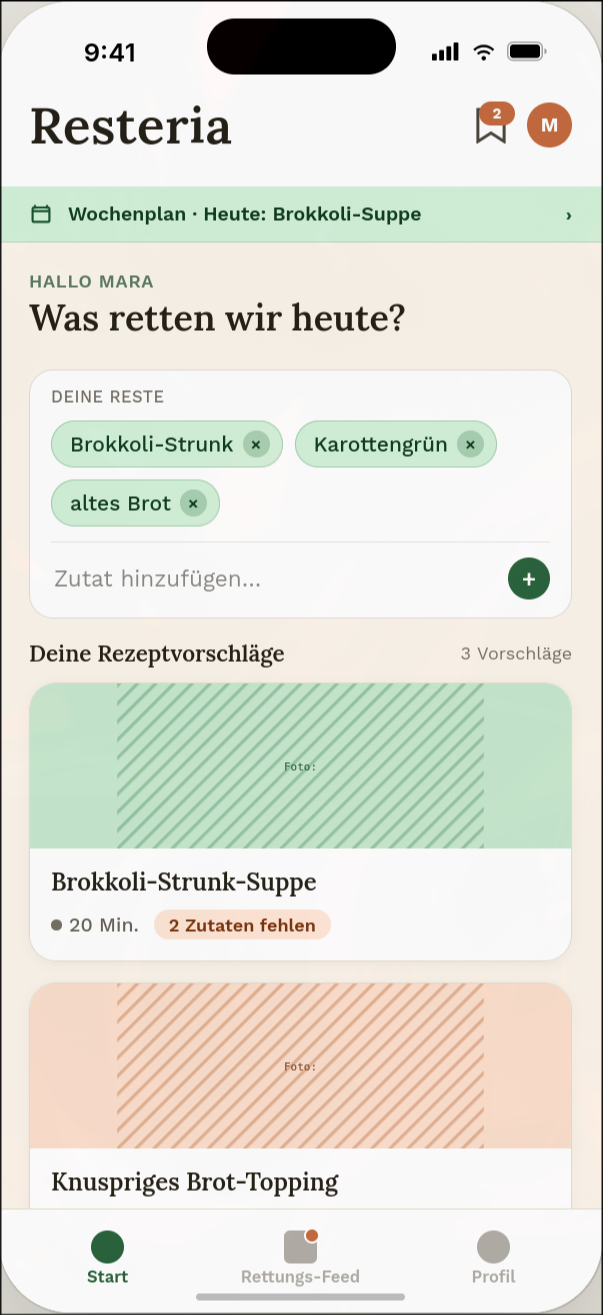
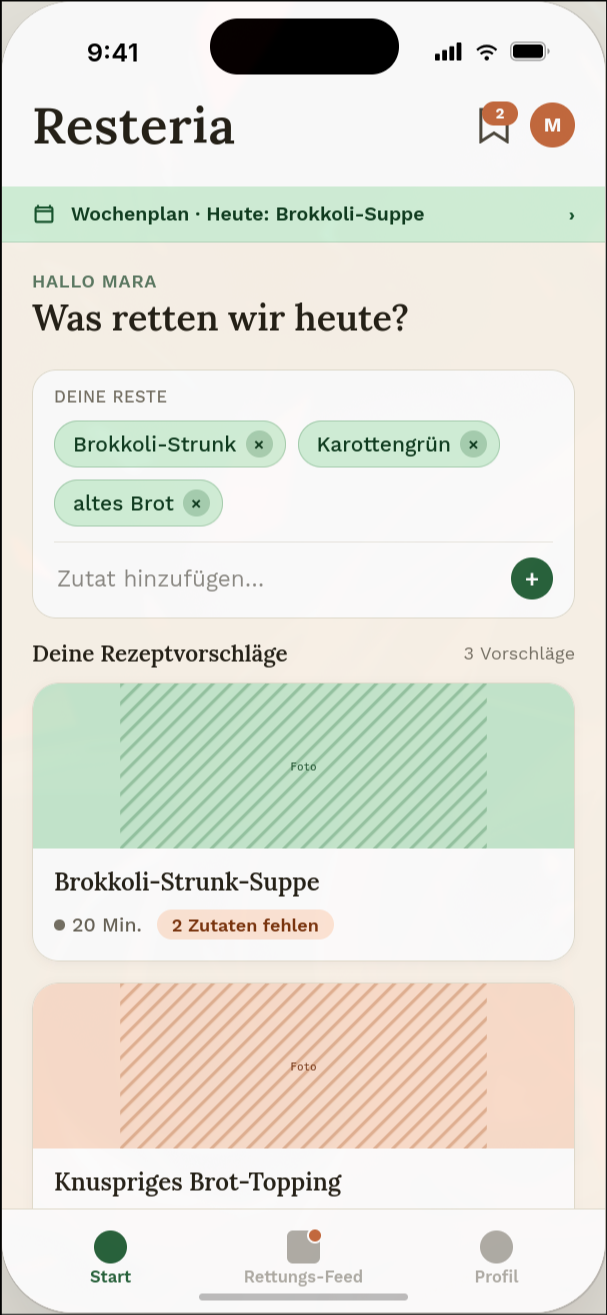
mockup updates und styletile

diff --git a/pages/appendix.tex b/pages/appendix.tex
@@ -24,21 +24,21 @@ Typische Haltung & Möchte nicht extra einkaufen müssen, nur weil ein Rezept ei
 \caption{UI/UX-Mockup Resteria: Startseite mit Reste-Eingabe und Rezeptvorschlag}\label{fig:mockup_start}
 \centering
 \includegraphics[height=0.55\textheight, keepaspectratio]{images/durchfuehrung/resteria_startseite.png}
-\quelle{Erstellt mit dem Prompt \enquote{Mobile App-Screen für Resteria, eine Social-Media-Plattform für nachhaltigkeitsorientierte Hobbyköch:innen: Startseite mit Reste-Eingabefeld (Zutaten als Chip-Tags, z.\,B. Brokkoli-Strunk, Karottengrün, altes Brot) und darunter Rezeptvorschlägen als Karten mit Zubereitungszeit und fehlenden Zutaten; warmer, erdiger Look in Grün- und Terracotta-Tönen, keine Stock-Photo-Ästhetik} durch Anthropic, 2026 (Claude Design, Modell Claude Sonnet 5). Abbildung nachträglich manuell bearbeitet.}
+\quelle{Erstellt mit dem Prompt \enquote{Mobile App-Screen für Resteria, eine Social-Media-Plattform für nachhaltigkeitsorientierte Hobbyköch:innen: Startseite mit Reste-Eingabefeld (Zutaten als Chip-Tags, z.\,B. Brokkoli-Strunk, Karottengrün, altes Brot) und darunter Rezeptvorschlägen als Karten mit Zubereitungszeit und fehlenden Zutaten; warmer, erdiger Look in Grün- und Terracotta-Tönen, keine Stock-Photo-Ästhetik}, ergänzt um die Folge-Prompts \enquote{Ergänze am Startseiten-Screen unterhalb der Rezeptvorschläge eine kompakte Karte \enquote{Wochenplan \& Reste-Journal} mit den nächsten Wochentagen und einer Zeile zu zuletzt verwerteten Zutaten} sowie \enquote{Ersetze die Foto-Platzhalter-Beschriftung \enquote{Foto:} durch \enquote{Foto} ohne Doppelpunkt} und in weiteren Iterationsschritten verfeinert, durch Anthropic, 2026 (Claude Design, Modell Claude Sonnet 5). Abbildung nachträglich manuell bearbeitet.}
 \end{figure}
 
 \begin{figure}[H]
 \caption{UI/UX-Mockup Resteria: Startseite mit ausgeklappten gespeicherten Rezepten}\label{fig:mockup_start_bookmarks}
 \centering
 \includegraphics[height=0.55\textheight, keepaspectratio]{images/durchfuehrung/resteria_startseite_bookmarks.png}
-\quelle{Erstellt mit dem Prompt \enquote{Dieselbe Resteria-Startseite, jedoch mit über das Lesezeichen-Icon ausgeklapptem Bereich \enquote{Gespeicherte Rezepte}, der zuvor per Lesezeichen markierte Rezeptvorschläge auflistet; gleicher warmer, erdiger Look in Grün- und Terracotta-Tönen} durch Anthropic, 2026 (Claude Design, Modell Claude Sonnet 5). Abbildung nachträglich manuell bearbeitet.}
+\quelle{Erstellt mit dem Prompt \enquote{Dieselbe Resteria-Startseite, jedoch mit über das Lesezeichen-Icon ausgeklapptem Bereich \enquote{Gespeicherte Rezepte}, der zuvor per Lesezeichen markierte Rezeptvorschläge auflistet; gleicher warmer, erdiger Look in Grün- und Terracotta-Tönen}, ergänzt um die Folge-Prompts \enquote{Ergänze am Startseiten-Screen unterhalb der Rezeptvorschläge eine kompakte Karte \enquote{Wochenplan \& Reste-Journal} mit den nächsten Wochentagen und einer Zeile zu zuletzt verwerteten Zutaten} sowie \enquote{Ersetze die Foto-Platzhalter-Beschriftung \enquote{Foto:} durch \enquote{Foto} ohne Doppelpunkt} und in weiteren Iterationsschritten verfeinert, durch Anthropic, 2026 (Claude Design, Modell Claude Sonnet 5). Abbildung nachträglich manuell bearbeitet.}
 \end{figure}
 
 \begin{figure}[H]
 \caption{UI/UX-Mockup Resteria: Profil mit Rettungspunkten und Reste-Level}\label{fig:mockup_profil}
 \centering
 \includegraphics[height=0.55\textheight, keepaspectratio]{images/durchfuehrung/resteria_profil.png}
-\quelle{Erstellt mit dem Prompt \enquote{Mobile App-Screen für Resteria: Profilbereich mit Profilbild-Platzhalter, Namen und Reste-Level-Badge (z.\,B. \enquote{Level 4 – Resteheld:in}), Rettungspunkte-Fortschrittsbalken und einem Raster eigener geposteter Reste-Kreationen; warmer, erdiger Look in Grün- und Terracotta-Tönen, keine Stock-Photo-Ästhetik}, ergänzt um den Folge-Prompt \enquote{Ergänze unterhalb des Rettungspunkte-Fortschrittsbalkens eine zweite, kleinere Kennzahl mit einer konkreten Mengenangabe, z.\,B. \enquote{12,4 kg Lebensmittel gerettet}, die die Rettungspunkte in eine greifbare Einsparung übersetzt} durch Anthropic, 2026 (Claude Design, Modell Claude Sonnet 5). Abbildung nachträglich manuell bearbeitet.}
+\quelle{Erstellt mit dem Prompt \enquote{Mobile App-Screen für Resteria: Profilbereich mit Profilbild-Platzhalter, Namen und Reste-Level-Badge (z.\,B. \enquote{Level 4 – Resteheld:in}), Rettungspunkte-Fortschrittsbalken und einem Raster eigener geposteter Reste-Kreationen; warmer, erdiger Look in Grün- und Terracotta-Tönen, keine Stock-Photo-Ästhetik}, ergänzt um die Folge-Prompts \enquote{Ergänze unterhalb des Rettungspunkte-Fortschrittsbalkens eine zweite, kleinere Kennzahl mit einer konkreten Mengenangabe, z.\,B. \enquote{12,4 kg Lebensmittel gerettet}, die die Rettungspunkte in eine greifbare Einsparung übersetzt} sowie \enquote{Ersetze die Foto-Platzhalter-Beschriftung \enquote{Foto:} durch \enquote{Foto} ohne Doppelpunkt} durch Anthropic, 2026 (Claude Design, Modell Claude Sonnet 5). Abbildung nachträglich manuell bearbeitet.}
 \end{figure}
 
 \begin{figure}[H]
@@ -46,4 +46,13 @@ Typische Haltung & Möchte nicht extra einkaufen müssen, nur weil ein Rezept ei
 \centering
 \includegraphics[height=0.55\textheight, keepaspectratio]{images/durchfuehrung/resteria_rettungsfeed.png}
 \quelle{Erstellt mit dem Prompt \enquote{Mobile App-Screen für Resteria: vertikaler Rettungs-Feed im Social-Media-Stil mit Beiträgen, die je ein Foto, einen Nutzernamen, einen Tag mit der geretteten Zutat sowie Like- und Kommentar-Icons zeigen; warmer, erdiger Look in Grün- und Terracotta-Tönen, keine Stock-Photo-Ästhetik}, ergänzt um die Folge-Prompts \enquote{Ergänze am Rettungs-Feed-Screen einen schwebenden Terracotta-Plus-Button unten rechts zum Beitrag-Erstellen sowie ein schmales Challenge-Banner oben für die \enquote{Zero-Waste-Woche}-Rangliste} sowie \enquote{Positioniere den Plus-Button am Rettungs-Feed-Screen so, dass er die Aktionsleiste des ersten Beitrags nicht überlappt, und ersetze die Foto-Platzhalter-Beschriftung \enquote{Foto:} durch \enquote{Foto} ohne Doppelpunkt} durch Anthropic, 2026 (Claude Design, Modell Claude Sonnet 5). Abbildung nachträglich manuell bearbeitet.}
+\end{figure}
+
+\section*{Anhang~C: Style Tile Resteria}\label{sec:anhang_c}
+
+\begin{figure}[H]
+\caption{Style Tile Resteria: Farbwelt, Typografie und wiederkehrende Bedienelemente}\label{fig:styletile}
+\centering
+\includegraphics[height=0.85\textheight, keepaspectratio]{images/durchfuehrung/resteria_styletile.png}
+\quelle{Erstellt mit dem Prompt \enquote{Erstelle einen Style Tile für das Projekt erstellen auf einer neuen Seite. Formatiere ihn als kompakter One-Pager im A4 Seitenformat} durch Anthropic, 2026 (Claude Design, Modell Claude Sonnet 5).}
 \end{figure}

diff --git a/chapters/02_durchfuehrung/03_konzept.tex b/chapters/02_durchfuehrung/03_konzept.tex
@@ -10,7 +10,7 @@ Um aus einmaliger Nutzung wiederkehrendes Verhalten zu machen, bemessen sich Ret
 
 Dass Gamification als Hebel grundsätzlich wirkt, zeigt eine Feldstudie von \textcite[S. 9]{somaFoodWasteReduction2020}: Vielspieler:innen einer zwölfwöchigen Intervention reduzierten ihren Lebensmittelabfall um 51 Prozent, Wenigspieler:innen nur um 39 Prozent; der Unterschied war statistisch signifikant. Die Studie stützt damit die Entscheidung für Gamification, belegt aber nicht die Wirkung der konkreten Punkte- und Level-Mechanik von Resteria, weil sie eine andere Intervention getestet hat. Deren Ausgestaltung bleibt eine eigene Konzeptleistung dieser Arbeit.
 
-Drei weitere Kernfunktionen nennt die Aufgabenstellung explizit. Nutzer:innen können eigene Reste-Kreationen per Foto oder kurzem Video hochladen, allerdings mit Pflichtangabe der verwendeten Reste-Zutat. Ein Bewertungs- und Kommentarsystem erlaubt es, auf fremde Beiträge zu reagieren und Zubereitungstipps auszutauschen. Personalisierte Empfehlungen schlagen Rezepte vor, die zu bereits genutzten Zutaten oder bevorzugten Küchenstilen passen. Eine vierte Funktion verknüpft Menüplanung mit dem Zero-Waste-Fokus: Ein Wochenplan nutzt vorhandene Zutaten, ein begleitendes Reste-Journal protokolliert die verwerteten Zutaten und speist sie in die Rettungspunkte ein. Erreichbar ist der Bereich über die Startseite, sodass die Navigation bei drei Hauptbereichen bleibt.
+Drei weitere Kernfunktionen nennt die Aufgabenstellung explizit. Nutzer:innen können eigene Reste-Kreationen per Foto oder kurzem Video hochladen, allerdings mit Pflichtangabe der verwendeten Reste-Zutat. Ein Bewertungs- und Kommentarsystem erlaubt es, auf fremde Beiträge zu reagieren und Zubereitungstipps auszutauschen. Personalisierte Empfehlungen schlagen Rezepte vor, die zu bereits genutzten Zutaten oder bevorzugten Küchenstilen passen. Eine vierte Funktion verknüpft Menüplanung mit dem Zero-Waste-Fokus: Ein Wochenplan nutzt vorhandene Zutaten und ist über die Startseite erreichbar; das zugehörige Reste-Journal protokolliert die verwerteten Zutaten im Profilbereich, wo sie als Rettungspunkte und als Einsparangabe sichtbar werden. Die Navigation bleibt damit bei drei Hauptbereichen.
 
 \begin{table}[H]
 \caption{Funktionsübersicht von Resteria}\label{tab:funktionsuebersicht}
@@ -31,6 +31,6 @@ Menüplanung \& Reste-Journal & Wochenplan verknüpft mit Protokoll verwerteter 
 
 Innovativ gegenüber den untersuchten Plattformen sind vor allem die Kopplung von Menüplanung und Reste-Journal an die Rettungspunkte, der verpflichtende Reste-Tag bei jedem Feed-Beitrag und die zeitlich begrenzten Challenges anstelle von Forum und Gruppen. Rezept-Upload, Bewertungs- und Kommentarsystem sowie personalisierte Empfehlungen übernimmt Resteria dagegen bewusst aus etablierten Rezept-Communitys, weil sich diese Formate dort bereits bewährt haben.
 
-Die Struktur für User Interface (UI) und User Experience (UX) folgt drei Hauptbereichen: einer Startseite mit Reste-Eingabefeld und Rezeptvorschlägen, einem Profilbereich mit Rettungspunkten, Reste-Level und eigenen Beiträgen sowie dem Rettungs-Feed aus~\autoref{sec:community_und_feedback}. Über ein Lesezeichen-Icon lassen sich Rezeptvorschläge als \enquote{Gespeicherte Rezepte} merken. Für alle Bereiche liegt je ein Mockup in Anhang B vor: Startseite in~\autoref{fig:mockup_start}, die ausgeklappten gespeicherten Rezepte in~\autoref{fig:mockup_start_bookmarks}, Profil in~\autoref{fig:mockup_profil} und Rettungs-Feed in~\autoref{fig:mockup_feed}, jeweils als KI-generierte Darstellung gekennzeichnet.
+Die Struktur für User Interface (UI) und User Experience (UX) folgt drei Hauptbereichen: einer Startseite mit Reste-Eingabefeld und Rezeptvorschlägen, einem Profilbereich mit Rettungspunkten, Reste-Level und eigenen Beiträgen sowie dem Rettungs-Feed aus~\autoref{sec:community_und_feedback}. Über ein Lesezeichen-Icon lassen sich Rezeptvorschläge als \enquote{Gespeicherte Rezepte} merken. Für alle Bereiche liegt je ein Mockup in Anhang B vor: Startseite in~\autoref{fig:mockup_start}, die ausgeklappten gespeicherten Rezepte in~\autoref{fig:mockup_start_bookmarks}, Profil in~\autoref{fig:mockup_profil} und Rettungs-Feed in~\autoref{fig:mockup_feed}, jeweils als KI-generierte Darstellung gekennzeichnet. Farbwelt, Typografie und wiederkehrende Bedienelemente hält der Style Tile in Anhang C fest,~\autoref{fig:styletile}.
 
 Die Aufgabenstellung nennt zudem einen Event-Kalender. Resteria verzichtet darauf: Ein Kalender für Kochkurse oder lokale Treffen würde den Fokus von der individuellen Resteverwertung auf Veranstaltungsorganisation verschieben und stellt eigene Anforderungen an Moderation und lokale Vernetzung. Vernetzung verlagert Resteria stattdessen in den Rettungs-Feed und die Challenges.

diff --git a/chapters/03_fazit/01_kernergebnisse_und_ausblick.tex b/chapters/03_fazit/01_kernergebnisse_und_ausblick.tex
@@ -2,6 +2,6 @@
 
 Dieser Projektbericht hat mit Resteria ein Plattformkonzept für nachhaltigkeitsorientierte Hobbyköch:innen entwickelt, das eine konkrete Lücke im bestehenden Angebot schließt. Etablierte Rezept-Communitys bieten Austausch und Inspiration ohne dedizierten Zero-Waste-Fokus, Reste-Matching-Apps lösen umgekehrt das Zutaten-Problem ohne Ort für Austausch, wie~\autoref{sec:wettbewerbsanalyse} gezeigt hat; selbst leftovercooking bleibt bei der Community-Komponente auf das Verfolgen von Creator-Inhalten beschränkt. Resteria verbindet beide Seiten: Reste-Matching als Kernfunktion, ergänzt um Rettungspunkte, Reste-Level und einen Rettungs-Feed mit Challenges. Diese Differenzierung beruht auf der eigenen Wettbewerbsanalyse.
 
-Die Gamification- und Community-Funktionen stützen sich dagegen auf literaturbasierte Verhaltenshebel: den Rahmen aus Drivers und Levers, der konkrete Funktionen statt bloßer Absichtserklärungen verlangt \parencite[S. 1]{vittuariHowReduceConsumer2023}, Reminders als wirksamen Nudge-Typ hinter der geplanten Erinnerungsbenachrichtigung \parencite[S. 10]{barkerWhatNudgeTechniques2021}, die belegte Wirksamkeit von Gamification gegen Lebensmittelverschwendung \parencite[S. 9]{somaFoodWasteReduction2020} sowie die Selbstwahrnehmungs-Mechanik hinter den Reste-Level-Titeln \parencite{nivedhithaHowGreenSocial2024}. Diese Trennung hält den Bericht davon ab, den gesamten Marktvorteil von Resteria als wissenschaftlich bewiesen darzustellen, obwohl er auf eigener Marktbeobachtung beruht.
+Die Gamification- und Community-Funktionen stützen sich dagegen auf literaturbasierte Verhaltenshebel: den Rahmen aus Drivers und Levers, der konkrete Funktionen statt bloßer Absichtserklärungen verlangt \parencite[S. 1]{vittuariHowReduceConsumer2023}, Reminders als wirksamen Nudge-Typ hinter der geplanten Erinnerungsbenachrichtigung \parencite[S. 10]{barkerWhatNudgeTechniques2021}, die belegte Wirksamkeit von Gamification gegen Lebensmittelverschwendung \parencite[S. 9]{somaFoodWasteReduction2020} sowie die Selbstwahrnehmungs-Mechanik hinter den Reste-Level-Titeln \parencite{nivedhithaHowGreenSocial2024}. Diese Trennung macht kenntlich, dass die Differenzierung auf eigener Marktbeobachtung beruht und deshalb nicht als wissenschaftlich belegt gelten kann.
 
 Über den Rahmen dieses Projektberichts hinaus benötigt Resteria vor allem einen realen Nutzertest; die Phasenplanung in~\autoref{sec:phasenplanung} sieht ihn bereits als Beta-Test vor dem Launch vor. Daneben könnten die in~\autoref{sec:konzept} angelegten Kooperationen über ihren Erlösbeitrag hinaus neue Nutzer:innen erschließen, ohne den Fokus auf Reste-Matching und Community zu verwässern. Beide Schritte setzen voraus, dass das Konzept zunächst als Prototyp umgesetzt wird.

diff --git a/chapters/02_durchfuehrung/06_evaluation_reflexion.tex b/chapters/02_durchfuehrung/06_evaluation_reflexion.tex
@@ -6,6 +6,6 @@ Zwischen zwei Festlegungen dieses Berichts besteht eine Spannung. Die Einleitung
 
 Die Kombination aus Wettbewerbsanalyse und literaturbasierter Herleitung der Gamification-Funktionen war für diesen Projektrahmen angemessen, weil sie Markt und verhaltenswissenschaftliche Fundierung ohne eigene Nutzerdaten abdeckt. Zwei Stellen erzwangen eine Kursänderung: Der zunächst naheliegende Community-Zuschnitt mit Forum und Nutzergruppen wich nach dem Befund von Soma et al. zeitlich begrenzten Challenges, und eine Namenskollision zwang zur Korrektur des Arbeitstitels. Rückblickend wäre mehr Zeit für die Suche nach zusätzlichen Vergleichsplattformen sinnvoll gewesen.
 
-Der Weg zu diesem Konzept folgte einer erkennbaren Abfolge: Zuerst legte diese Arbeit mit der Zero-Waste-Nische den Fokus fest, dann folgten die Sichtung der sechs Plattformen im Juli 2026 und die Literaturrecherche zu Nudges und Gamification, aus denen sich Funktions- und Gamification-Konzept ableiteten. Diese wurden anschließend in die vier UI/UX-Mockups übersetzt. Eine erste Nachbesserungsrunde an den Mockups, etwa die Ergänzung von Challenge-Banner und Einsparangabe, zeigt, dass die Iteration tatsächlich stattgefunden hat und nicht nur geplant war.
+Der Weg zu diesem Konzept folgte einer erkennbaren Abfolge: Zuerst legte diese Arbeit mit der Zero-Waste-Nische den Fokus fest, dann folgten die Sichtung der sechs Plattformen im Juli 2026 und die Literaturrecherche zu Nudges und Gamification, aus denen sich Funktions- und Gamification-Konzept ableiteten. Diese wurden anschließend in die vier UI/UX-Mockups übersetzt. Mehrere Nachbesserungsrunden an den Mockups, etwa die Ergänzung von Challenge-Banner und Einsparangabe, zeigen, dass die Iteration tatsächlich stattgefunden hat und nicht nur geplant war.
 
 Daraus lassen sich zwei Lehren für künftige Projekte dieser Art ziehen. Erstens erleichtert eine früh eingegrenzte Zielgruppe spätere Konzeptentscheidungen erheblich, weil sich Funktionen dadurch klarer priorisieren lassen. Zweitens lohnt sich eine bewusste Trennung zwischen literaturbasierten Hebeln und eigenen Konzeptentscheidungen, damit die Fundierung einzelner Funktionen nachvollziehbar bleibt und nicht überzeichnet wird.

diff --git a/chapters/02_durchfuehrung/07_iteratives_design.tex b/chapters/02_durchfuehrung/07_iteratives_design.tex
@@ -1,5 +1,5 @@
 \subsection{Iteratives Design und Feedback}\label{sec:iteratives_design}
 
-Eine erste Rückkopplungsschleife haben die Mockups von Resteria bereits durchlaufen: Nach einer Sichtung gegen die Konzeptbeschreibung wurden Challenge-Banner und Einsparangabe ergänzt. Die nächste Schleife folgt vor der eigentlichen Entwicklung. In der Design-Phase (Woche 3--4, siehe~\autoref{tab:phasenplanung}) sollen Bedienführungs-Entscheidungen wie die Drei-Bereiche-Navigation aus~\autoref{sec:konzept} am Klick-Prototyp geprüft werden, bevor sie in die \ac{MVP}-Entwicklung übergehen. Auffälligkeiten lassen sich an dieser Stelle noch ohne Programmieraufwand korrigieren; genau das begründet die Abhängigkeit, die~\autoref{sec:phasenplanung} zwischen Design- und Entwicklungsphase festlegt.
+Mehrere Rückkopplungsschleifen haben die Mockups von Resteria bereits durchlaufen: Der Abgleich gegen die Konzeptbeschreibung ergänzte zuerst Challenge-Banner und Einsparangabe, später den Zugang zum Wochenplan; die Sichtung der Screens selbst korrigierte Platzierungs- und Beschriftungsfehler. Die nächste Schleife folgt vor der eigentlichen Entwicklung. In der Design-Phase (Woche 3--4, siehe~\autoref{tab:phasenplanung}) sollen Bedienführungs-Entscheidungen wie die Drei-Bereiche-Navigation aus~\autoref{sec:konzept} am Klick-Prototyp geprüft werden, bevor sie in die \ac{MVP}-Entwicklung übergehen. Auffälligkeiten lassen sich an dieser Stelle noch ohne Programmieraufwand korrigieren; genau das begründet die Abhängigkeit, die~\autoref{sec:phasenplanung} zwischen Design- und Entwicklungsphase festlegt.
 
 Die Feedback-Schleifen im Entwicklungsprozess von Resteria sind für diesen Projektbericht ausschließlich als geplantes Vorgehen beschrieben, nicht real durchgeführt; die Aufgabenstellung verlangt an dieser Stelle eine Beschreibung, keine tatsächliche Umsetzung. Nach einem ersten Prototyp ist eine kleine Beta-Gruppe aus zehn bis fünfzehn Personen vorgesehen, die über zwei bis drei Wochen Kernfunktionen wie das Reste-Matching und die Rettungspunkte testet. Rückmeldungen sollen über kurze Fragebögen und ein moderiertes Feedback-Gespräch gesammelt und in zweiwöchigen Sprints in die Weiterentwicklung einfließen.

diff --git a/chapters/03_fazit/02_limitationen.tex b/chapters/03_fazit/02_limitationen.tex
@@ -2,6 +2,6 @@
 
 Die erste und größte Grenze dieses Konzepts ist das Fehlen eines echten Nutzertests. Resteria beruht auf keinerlei Primärdaten; alle Annahmen zum Nutzungsverhalten, zur Attraktivität der Gamification-Mechanik und zur tatsächlichen Reduktion von Lebensmittelverschwendung bleiben deshalb hypothetisch. Betroffen ist nicht das Vorgehen, sondern die Geltung der Ergebnisse. Abgemildert wird die Grenze dadurch, dass zentrale Funktionen wie die Rettungspunkte aus überprüfter Verhaltensforschung stammen, etwa aus der Reminder-Wirkung, die \textcite{barkerWhatNudgeTechniques2021} belegen. Für die Umsetzung ist ein Beta-Test vorgesehen, wie ihn die Phasenplanung in~\autoref{sec:phasenplanung} berücksichtigt.
 
-Eine zweite Grenze betrifft die vier UI/UX-Mockups in Anhang B. Sie sind KI-generiert und beruhen nicht auf Rückmeldungen realer Nutzer:innen, weshalb sich Aussagen zur Bedienbarkeit daraus nicht ableiten lassen. Abgemildert wird das durch die transparent gekennzeichnete Herkunft und die Beschränkung auf die drei Hauptbereiche der Navigation. Vor einer realen Umsetzung sollte ein Usability-Test mit einem funktionsfähigen Prototyp folgen.
+Eine zweite Grenze betrifft die vier UI/UX-Mockups in Anhang B. Sie sind KI-generiert und beruhen nicht auf Rückmeldungen realer Nutzer:innen, weshalb sich Aussagen zur Bedienbarkeit daraus nicht ableiten lassen. Der Anspruch bleibt entsprechend begrenzt: Die Herkunft ist transparent gekennzeichnet, und die Mockups zeigen nur die drei Hauptbereiche der Navigation, nicht die vollständige Bedienführung. Vor einer realen Umsetzung sollte ein Usability-Test mit einem funktionsfähigen Prototyp folgen.
 
 Die dritte Grenze liegt in der Wettbewerbsanalyse. Sie untersucht sechs Vertreter aus drei Plattform-Kategorien, aber nicht den gesamten Markt, sodass sich die festgestellte Marktlücke nicht mit letzter Sicherheit verallgemeinern lässt. Abgemildert wird das durch die gezielte Auswahl, bei der jede Kategorie mit ein bis drei Vertretern belegt ist. Vor einer realen Umsetzung empfiehlt sich eine breitere Marktanalyse, die auch kleinere und internationale Anbieter einbezieht.

diff --git a/main.tex b/main.tex
@@ -336,6 +336,7 @@
 \begin{tabular}{p{2.5cm}p{10cm}}
 Anhang A: & Persona-Skizze \\
 Anhang B: & UI/UX-Mockups Resteria (Startseite, Startseite mit gespeicherten Rezepten, Profil, Rettungs-Feed) \\
+Anhang C: & Style Tile Resteria \\
 \end{tabular}
 
  % Appendix % TODO: Add Appendix?

diff --git a/CLAUDE.md b/CLAUDE.md
@@ -105,7 +105,8 @@ Reine Lese-Operation, keine Arbeitssession:
 | Kapitelplan | `kapitelplan.md` | FERTIG | Plattform „Resteria" (Name 2026-07-21 gesetzt, Kollision „Restlos Glücklich" behoben) — 3 Kapitel, 12 Subsections (2026-07-24: `sec:iteratives_design` ergänzt, Befund 5.2) |
 | `sec:einleitung` | `chapters/01_einleitung/einleitung.tex` | FERTIG | Kürzungsrunde 2026-07-28: 579 → 521 Wörter (14,3 % Anteil, im Soll). Gekürzt ausschließlich in `01_ausgangslage_und_problem.tex` (Kontrastfiguren, doppelte Lückenbeschreibung) sowie im Master-Wegweiser; `02_zielsetzung` und `03_vorgehen` bewusst unangetastet, da nahe der Halbseiten-Schwelle. Verengungsbegründung und Zeitbezug (SDG 12.3) unverändert. `check_formalia.py` 0 FEHLER.
 | `sec:durchfuehrung` | `chapters/02_durchfuehrung/…` | FERTIG | Kürzungsrunde 2026-07-28: 3.507 → 2.690 Wörter (74,0 % Anteil, im Soll), Hauptlast der Runde. `03_konzept.tex` von 1.041 auf ~560 Wörter (lag mit elf Absätzen weit über dem Richtwert 4–8), `01_wettbewerbsanalyse.tex` von 986 auf ~500. `fig:konzeptfluss` gestrichen (nach Freigabe; war ohne `\autoref`-Verweis und kein Lieferobjekt). Alle sechs Plattformen, alle Pflicht-Tabellen, alle Abhakliste-Schlüsselbegriffe und die Event-Kalender-Begründung erhalten. `check_formalia.py` 0 FEHLER, 6/6 BBT-Keys valide. **Nachtrag 2026-07-28:** `03_konzept.tex:3` um einen Begründungssatz zur Freemium-Trennlinie erweitert (+30 Wörter, jetzt ~2.720) — bedient das Bewertungskriterium Transfer („begründe jeweils Deine Wahl", Aufgabenstellung S. 6), da das Bezahlmodell bis dahin als gesetzte Entscheidung ohne Herleitung dastand. `check_formalia.py` 0 FEHLER. Anschließend im selben Absatz die undefinierte „erweiterte Vorratsverwaltung" (kam in Runde 6/6.6 als Ersatz für die gestrichenen exklusiven Challenges hinein, wurde aber nie in Fließtext oder `tab:funktionsuebersicht` durchgezogen) in die Menüplanung eingefaltet: „erweitert die Menüplanung um eine Vorratsübersicht mit Haltbarkeitsdaten und blendet Werbung aus" — definiert zugleich, was „erweitert" heißt (−2 Wörter). Werbung bleibt bewusst Teil des Modells (Gratis-Version werbefinanziert, Bezahlpaket blendet aus); ein Werbeverzicht war nie beschlossen. **Datenbeschaffung ergänzt (2026-07-28):** Nutzer-Einwand, dass der Beta-Test (Woche 15–17, prüft laut `07_iteratives_design.tex:5` das Reste-Matching) einen Rezeptbestand voraussetzt — zutreffend: Der Bestandsaufbau kam in keiner Phase der Inhaltsspalte vor. Jetzt in Phase 3 aufgenommen („Aufbau des Rezeptbestands, Umsetzung von …"), bewusst nicht in Phase 1–2, weil `05_phasenplanung.tex:3` diese als „mit diesem Bericht bereits erbracht" ausweist und der Bestand nicht existiert. Dazu ein Satz in `03_konzept.tex:7`: „Ein anfänglicher Rezeptbestand aus Rezeptkooperationen und lizenzierten Sammlungen ist damit Voraussetzung für den Beta-Test; Nutzerbeiträge erweitern ihn erst danach." — die Reihenfolge ist entscheidend, Nutzerbeiträge allein wären zirkulär. „Rezeptkooperationen" statt „Kooperationen", damit es nicht mit den Erlös-Kooperationen (Food-Sharing, Händler) in Z. 3 verschwimmt. Gegenfinanziert über Straffung des Menüplanungs-Satzes (Z. 13) und der Namensherleitung (Z. 3); in letzterer das Hedge „oft" bewusst wieder eingesetzt, da „-ia" ohne Einschränkung eine zu starke sprachliche Behauptung wäre. Roter Faden anschließend gegengelesen und zwei Anschlussstellen geschlossen: Risiko 2 in `05_phasenplanung.tex:23` um „oder beim Aufbau des Rezeptbestands" erweitert (statt eines dritten Risikos — „Zwei Risiken" bleibt korrekt, und der Zwei-Wochen-Puffer ist als Mitigation eines *Verzögerungs*risikos stimmig), und der Vorgriff auf den Beta-Test in `03_konzept.tex:7` mit `~\autoref{sec:phasenplanung}` verankert. Zuletzt in `06_evaluation_reflexion.tex:7` den Ankündigungssatz „Auch das Vorgehen selbst verdient einen Blick." ersatzlos gestrichen (−7 Wörter): einziger inhaltsleerer Absatzöffner des Abschnitts, während alle vier übrigen Absätze mit einer belastbaren Aussage beginnen; der Folgesatz trägt die Vorgehens-Bewertung samt Begründung bereits allein. Gemessen: **3.677 Wörter ≈ 9,8 S.** (`check_umfang.py`), Session netto +40 Wörter gegenüber 3.637. **Mockup-Lücke gefunden (2026-07-28):** Alle vier Bilder per Read-Tool gesichtet — Wochenplan und Reste-Journal sind in keinem abgebildet, und beide Startseiten-Screens zeigen keinen Einstiegspunkt (Tab-Leiste durchgehend nur Start/Rettungs-Feed/Profil). Damit widerlegt das Bild die Textaussage in `03_konzept.tex:13` („Erreichbar ist der Bereich über die Startseite"). Altlast von Befund 5.7, der 2026-07-24 per Textzusatz statt neuem Bild gelöst wurde. Als **Anpassung 4** in `sources/claude-design-nachbesserung.md` dokumentiert (Nutzer-Schritt: Karte „Wochenplan & Reste-Journal" auf beiden Startseiten-Screens ergänzen, null Wörter, keine fünfte Abbildung); Fallback ohne Design-Runde ebenfalls dort notiert. `\quelle{}`-Zeilen bewusst **nicht** vorbereitet, damit kein nie ausgeführter Prompt zitiert wird. Befund 6.3 vom Nutzer behoben und verifiziert (Plus-Button frei, Lesezeichen sichtbar, Feed ohne „Foto:"-Doppelpunkt); die Platzhalter-Korrektur aus Anpassung 3 steht noch in Startseite, Bookmarks und Profil aus. `05_phasenplanung.tex`, `tab:phasenplanung`: Ressourcenspalte von Phase 3 um „Rezeptdaten aus Kooperation oder Nutzerbeiträgen" ergänzt — die Aufgabenstellung (S. 6) nennt **Daten** als erste zu bedenkende Ressource, die Tabelle führte keine, obwohl das Reste-Matching einen strukturierten Rezeptkorpus voraussetzt. In Phase 1 „Desk-Research" durch „öffentlich zugängliche Plattform- und App-Angebote" ersetzt: unerklärter Anglizismus und zugleich Kategoriefehler (Methode in der Ressourcenspalte, neben „Fachliteratur" nahezu tautologisch); die neue Formulierung deckt sich mit dem Methodensatz in `01_wettbewerbsanalyse.tex:13`. Bewusst NICHT ergänzt: Hinweis in Z. 3, dass Phase 1/2 real schneller liefen als veranschlagt (Reflexion nennt „rund zwei Wochen", Plan veranschlagt vier) — die KI-Unterstützung ist dort bereits als Grund genannt, und der Seitenumfang steht auf der Obergrenze. Zusätzlich Terminologie vereinheitlicht: „Mockup-Skizze" in `03_konzept.tex:34` → „Mockup" (−1 Wort). Ankerbegriff für die vier Abbildungen ist durchgängig **Mockup**; „Skizze" bezeichnet ab jetzt ausschließlich die Persona-Skizze in Anhang A (vorher doppelt belegt). Netto der Session ca. +27 Wörter. Seitenumfang stand vorher exakt bei 10 (Obergrenze) — vor Abgabe neu bauen.
-| `sec:fazit` | `chapters/03_fazit/…` | FERTIG | Kürzungsrunde 2026-07-28: 597 → 426 Wörter (11,7 % Anteil, im Soll). Die vier Verhaltenshebel in `01_kernergebnisse_und_ausblick.tex` von vier Einzelsätzen auf eine belegte Aufzählung verdichtet (narrative `\textcite` dabei korrekt zu `\parencite` gewechselt, da die Namen nicht mehr im Satz stehen). Alle drei Limitationen bleiben dreischichtig (warum · Mitigation · Folgeschritt) — gegengeprüft. `check_formalia.py` 0 FEHLER. **Nachtrag 2026-07-28:** Kooperations-Satz in `01_kernergebnisse_und_ausblick.tex:7` auf einen Rückbezug umgestellt (`\autoref{sec:konzept}` statt erneuter Einführung), da er die Kooperationen aus `03_konzept.tex` wortnah wiederholte und sie zugleich als noch offene Option darstellte, obwohl sie dort fester Teil des Erlösmodells sind. −2 Wörter; „regionale Zero-Waste-Vereine" dabei entfallen (Variante ohne eigenen Begründungswert). Ebenfalls korrigiert in `02_limitationen.tex:5`: Limitation 2 sprach im **Singular** vom „UI/UX-Mockup" (es sind vier) und nannte als Mitigation „die Beschränkung auf die Kernfunktion Reste-Matching" — sachlich überholt, da die Mockups auch Profil, gespeicherte Rezepte und Rettungs-Feed zeigen. Jetzt „die vier UI/UX-Mockups" und „die Beschränkung auf die drei Hauptbereiche der Navigation" (deckungsgleich mit `03_konzept.tex:34`). Dreischichtung (warum · Mitigation · Folgeschritt) bleibt erhalten — die Schicht war beim Voll-Audit vom 24.07. schon einmal als −15-FAIL aufgefallen. `check_formalia.py` 0 FEHLER.
+| `sec:fazit` | `chapters/03_fazit/…` | FERTIG | Kürzungsrunde 2026-07-28: 597 → 426 Wörter (11,7 % Anteil, im Soll). Die vier Verhaltenshebel in `01_kernergebnisse_und_ausblick.tex` von vier Einzelsätzen auf eine belegte Aufzählung verdichtet (narrative `\textcite` dabei korrekt zu `\parencite` gewechselt, da die Namen nicht mehr im Satz stehen). Alle drei Limitationen bleiben dreischichtig (warum · Mitigation · Folgeschritt) — gegengeprüft. `check_formalia.py` 0 FEHLER. **Nachtrag 2026-07-28:** Kooperations-Satz in `01_kernergebnisse_und_ausblick.tex:7` auf einen Rückbezug umgestellt (`\autoref{sec:konzept}` statt erneuter Einführung), da er die Kooperationen aus `03_konzept.tex` wortnah wiederholte und sie zugleich als noch offene Option darstellte, obwohl sie dort fester Teil des Erlösmodells sind. −2 Wörter; „regionale Zero-Waste-Vereine" dabei entfallen (Variante ohne eigenen Begründungswert). Ebenfalls korrigiert in `02_limitationen.tex:5`: Limitation 2 sprach im **Singular** vom „UI/UX-Mockup" (es sind vier) und nannte als Mitigation „die Beschränkung auf die Kernfunktion Reste-Matching" — sachlich überholt, da die Mockups auch Profil, gespeicherte Rezepte und Rettungs-Feed zeigen. Jetzt „die vier UI/UX-Mockups" und „die Beschränkung auf die drei Hauptbereiche der Navigation" (deckungsgleich mit `03_konzept.tex:34`). Dreischichtung (warum · Mitigation · Folgeschritt) bleibt erhalten — die Schicht war beim Voll-Audit vom 24.07. schon einmal als −15-FAIL aufgefallen. **Zwei Formulierungen überarbeitet (2026-07-28):** In `01_kernergebnisse_und_ausblick.tex:5` verknüpfte „…als wissenschaftlich bewiesen darzustellen, **obwohl** er auf eigener Marktbeobachtung beruht" die beiden Hälften konzessiv, obwohl das Verhältnis kausal ist; zudem war „er" doppeldeutig (Marktvorteil oder Bericht) und der Bericht stand als handelnde Instanz da — derselbe Akteurs-Fehler wie in Voll-Audit-Befund 4. Jetzt „Diese Trennung macht kenntlich, dass die Differenzierung auf eigener Marktbeobachtung beruht und deshalb nicht als wissenschaftlich belegt gelten kann." („Differenzierung" statt „Marktvorteil", deckungsgleich mit Z. 3). In `02_limitationen.tex:5` benannte die Mitigation nur zwei Maßnahmen, ohne zu sagen, wogegen sie wirken; jetzt „Der Anspruch bleibt entsprechend begrenzt: … die Mockups zeigen nur die drei Hauptbereiche der Navigation, nicht die vollständige Bedienführung." — bricht zugleich den dreifach wiederholten Öffner „Abgemildert wird das…" (kosmetischer Hinweis aus dem Delta-Re-Audit vom 26.07.). Mitigationsschicht bleibt eindeutig erkennbar. `check_formalia.py` 0 FEHLER.
+| Anhang C (Style Tile) | `pages/appendix.tex` · `images/durchfuehrung/resteria_styletile.png` | FERTIG | **Mockup-Iteration abgeschlossen (2026-07-28):** Wochenplan-Banner auf beiden Startseiten (Anpassung 4) und „Foto"-Platzhalter in allen vier Screens vom Nutzer umgesetzt. Alle vier `\quelle{}`-Zeilen tragen jetzt die Folge-Prompts; der Foto-Prompt wurde sinngemäß nach dem Wortlaut aus `claude-design-nachbesserung.md` (Anpassung 3) ergänzt — vor Abgabe gegen die tatsächlich eingegebene Formulierung abgleichen. Daraufhin `07_iteratives_design.tex:3` von „Eine erste Rückkopplungsschleife" auf „Mehrere Rückkopplungsschleifen" umgestellt und die zwei Auslösertypen unterschieden (Abgleich gegen die Konzeptbeschreibung vs. Sichtung der Screens selbst) — stärkt Teilaufgabe 3 und das Kriterium Prozess; `06_evaluation_reflexion.tex:9` zur Konsistenz auf „Mehrere Nachbesserungsrunden" angeglichen (±0 Wörter). Neu 2026-07-28 auf Nutzerwunsch. `\section*{Anhang~C: Style Tile Resteria}` mit `fig:styletile` (Farbpalette inkl. oklch-Werten, Typografie Lora/Work Sans, Layout-Maße, Icons, Komponenten). Im Fließtext einmal erwähnt in `03_konzept.tex:34`. **Zweite einmalige `main.tex`-Freigabe** des Nutzers (nach dem 23.07.): Zeile „Anhang C: & Style Tile Resteria" in die Anhangsverzeichnis-Tabelle (`main.tex:339`) ergänzt — ohne sie wäre der Anhang unvollständig ausgewiesen. `\quelle{}` zitiert den Nutzer-Prompt wortgetreu inkl. grammatischer Unebenheit („für das Projekt erstellen"), da Prompt-Angaben Zitate der Eingabe sind. Zusatz „Abbildung nachträglich manuell bearbeitet." bewusst **nicht** gesetzt — anders als bei den vier Mockups ist keine manuelle Nachbearbeitung bekannt; vor Abgabe zu prüfen. |
 | Prüf-Audit | `pruefbericht.md` | ÜBERARBEITUNG NÖTIG | **Überholt durch die Kürzungsrunde vom 2026-07-28.** Der dort dokumentierte Score 100/100 (Delta-Re-Audit 26.07.) bezieht sich auf den ungekürzten Textstand und gilt nicht mehr; `pruefbericht.md` ist als Momentaufnahme zu lesen. Neu: Teil-Check D (Build) ist erstmals durchführbar (`lualatex`/`latexmk`/`biber` verfügbar), Textteil gemessen 10 Seiten. Score im Delta-Re-Audit neu zu erheben.
 
 **Update-Regel:** Eine Komponente = eine Zeile, bestehende Zeile überschreiben, nie anhängen. Identifikator = `sec:<slug>` (in Plan-Modus Schritt 2.5 festgelegt) — hält Tabelle, Dateinamen und LaTeX-Labels synchron. Platzhalter-Zeilen spätestens bei Schritt 2.5 durch echte Einträge ersetzen; aus dem Plan entfernte Komponenten löschen.

diff --git a/sources/claude-design-nachbesserung.md b/sources/claude-design-nachbesserung.md
@@ -56,6 +56,12 @@ Betrifft **beide** Startseiten-Screens, da die Bookmarks-Ansicht derselbe Screen
 
 Da ohnehin beide Startseiten neu exportiert werden, lässt sich die noch offene Platzhalter-Korrektur aus Anpassung 3 („Foto:" → „Foto") im selben Zug miterledigen; dann bleibt sie nur noch im Profil-Screen offen.
 
+### Stand Anpassung 4: umgesetzt am 2026-07-28
+
+Beide Startseiten-Screens tragen jetzt identisch das Banner „Wochenplan · Heute: Brokkoli-Suppe" unterhalb des Headers; die Tab-Leiste bleibt bei drei Einträgen. Die Aussage in `03_konzept.tex:13` ist damit am Bild belegt. `\quelle{}`-Zeilen für `fig:mockup_start` und `fig:mockup_start_bookmarks` entsprechend ergänzt.
+
+Zwei Punkte bewusst so belassen: Das Banner nennt nur den Wochenplan, nicht das Reste-Journal — der Text führt das Journal als „begleitend" zum Wochenplan, es liegt also hinter demselben Einstieg; belegt ist es nicht, widerlegt aber auch nicht. Und der Prompt beschreibt eine Karte unterhalb der Rezeptvorschläge, entstanden ist ein Banner oben: Der Zitierleitfaden (S. 20) verlangt „den verwendeten Prompt", also die Eingabe, nicht eine Beschreibung des Ergebnisses; der Zusatz „und in weiteren Iterationsschritten verfeinert" hält die Abweichung transparent, ohne ein Prompt-Protokoll zu behaupten.
+
 ## Stand Anpassung 3 (Befund 6.3), geprüft am 2026-07-28
 
 Am Rettungs-Feed **erledigt**: Der Plus-Button überlappt die Aktionsleiste nicht mehr, das Lesezeichen-Icon des ersten Beitrags ist frei, und der Foto-Platzhalter trägt dort keinen Doppelpunkt mehr. Die Beschriftung „Foto:" steht aber weiterhin in `resteria_startseite.png`, `resteria_startseite_bookmarks.png` und `resteria_profil.png` — Anpassung 3 galt ausdrücklich für alle vier Screens.
